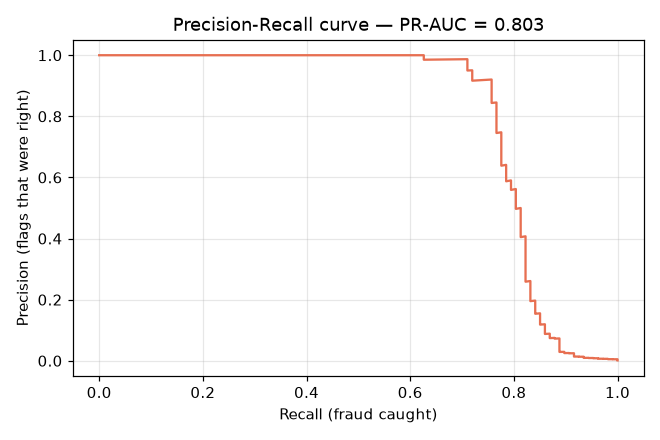
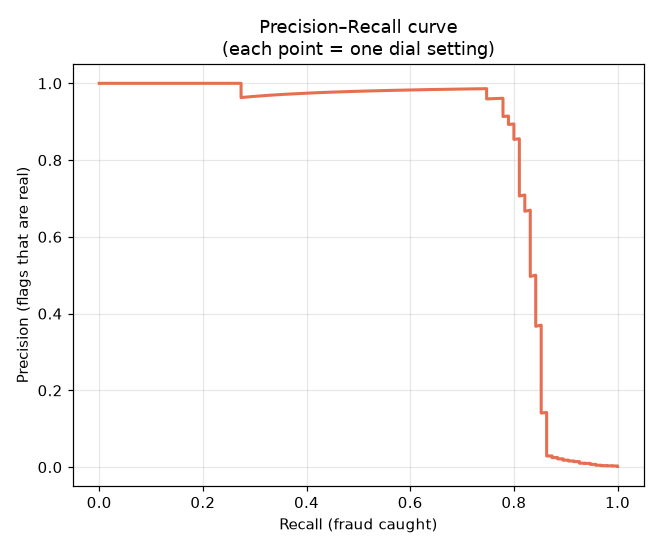
Add threshold-dial analysis (recall/precision trade-off, PR curve)

Changed region(s): [[0.0606, 0.0295, 1.0, 0.975], [0.0, 0.2068, 0.0909, 0.7386]]

diff --git a/src/models/tune_threshold.py b/src/models/tune_threshold.py
@@ -1,0 +1,92 @@
+"""
+tune_threshold.py — The DIAL. This is the heart of your product.
+
+A model outputs a fraud PROBABILITY (0..1) for every transaction. YOU choose the
+cut-off: "flag anything above X." That cut-off is the dial.
+
+  - Turn it DOWN (e.g. 0.10): catch more fraud, but annoy more good customers.
+  - Turn it UP   (e.g. 0.90): fewer false alarms, but let more fraud through.
+
+There is no perfect setting — only the one that fits a client's risk appetite.
+This script shows the whole trade-off so you can SET the dial on purpose.
+
+Run:  venv/bin/python src/models/tune_threshold.py
+"""
+import os
+import joblib
+import numpy as np
+import pandas as pd
+import matplotlib
+matplotlib.use("Agg")
+import matplotlib.pyplot as plt
+from sklearn.model_selection import train_test_split
+from sklearn.metrics import precision_recall_curve
+
+RANDOM_STATE = 42
+FIG_DIR = "reports/figures"
+os.makedirs(FIG_DIR, exist_ok=True)
+
+# Rebuild the EXACT same test set the model was evaluated on (same clean+split)
+df = pd.read_csv("data/creditcard.csv").drop_duplicates()
+X, y = df.drop(columns=["Class"]), df["Class"]
+X_train, X_test, y_train, y_test = train_test_split(
+    X, y, test_size=0.20, stratify=y, random_state=RANDOM_STATE
+)
+
+model = joblib.load("models/baseline_xgb.joblib")
+proba = model.predict_proba(X_test)[:, 1]          # fraud probability per tx
+amt = X_test["Amount"].values
+is_fraud = (y_test == 1).values
+total_fraud_amt = amt[is_fraud].sum()
+
+# ---------------------------------------------------------------------------
+# The dial at several settings — one row per cut-off
+# ---------------------------------------------------------------------------
+print("\n=== THE DIAL: what each cut-off buys and costs (test set, 95 frauds) ===")
+header = f"{'cut-off':>8} | {'fraud caught':>12} | {'recall':>7} | {'false alarms':>12} | {'precision':>9} | {'fraud $ saved':>13}"
+print(header); print("-" * len(header))
+for t in [0.95, 0.90, 0.70, 0.50, 0.30, 0.10, 0.05, 0.01]:
+    pred = proba >= t
+    tp = int((pred & is_fraud).sum())
+    fp = int((pred & ~is_fraud).sum())
+    fn = int((~pred & is_fraud).sum())
+    recall = tp / (tp + fn) if (tp + fn) else 0
+    precision = tp / (tp + fp) if (tp + fp) else 0
+    saved = amt[pred & is_fraud].sum()
+    print(f"{t:>8.2f} | {tp:>4}/{tp+fn:<7} | {recall*100:>6.1f}% | "
+          f"{fp:>12} | {precision*100:>8.1f}% | ${saved:>11,.0f}")
+
+print("\nRead it top-to-bottom: as the cut-off drops, 'fraud caught' rises but")
+print("'false alarms' rise too. That is the trade-off you are selling.")
+
+# ---------------------------------------------------------------------------
+# Figure 1: the Precision-Recall curve (every possible dial setting at once)
+# ---------------------------------------------------------------------------
+prec, rec, _ = precision_recall_curve(y_test, proba)
+plt.figure(figsize=(6, 5))
+plt.plot(rec, prec, color="#e76f51", lw=2)
+plt.xlabel("Recall (fraud caught)"); plt.ylabel("Precision (flags that are real)")
+plt.title("Precision–Recall curve\n(each point = one dial setting)")
+plt.grid(alpha=.3); plt.tight_layout()
+plt.savefig(f"{FIG_DIR}/pr_curve.png", dpi=110); plt.close()
+
+# ---------------------------------------------------------------------------
+# Figure 2: the dial itself — recall vs false alarms as the cut-off moves
+# ---------------------------------------------------------------------------
+ts = np.linspace(0.01, 0.99, 99)
+recalls = [ (proba >= t)[is_fraud].mean() * 100 for t in ts ]
+false_alarms = [ int(((proba >= t) & ~is_fraud).sum()) for t in ts ]
+fig, ax1 = plt.subplots(figsize=(7, 5))
+ax1.set_xlabel("Cut-off (the dial)")
+ax1.set_ylabel("Fraud caught  (recall %)", color="#2a9d8f")
+ax1.plot(ts, recalls, color="#2a9d8f", lw=2)
+ax1.tick_params(axis="y", labelcolor="#2a9d8f")
+ax2 = ax1.twinx()
+ax2.set_ylabel("Good customers wrongly blocked (count)", color="#e76f51")
+ax2.plot(ts, false_alarms, color="#e76f51", lw=2)
+ax2.tick_params(axis="y", labelcolor="#e76f51")
+plt.title("The dial: turn it left = catch more fraud AND block more good customers")
+plt.tight_layout(); plt.savefig(f"{FIG_DIR}/the_dial.png", dpi=110); plt.close()
+
+print(f"\nSaved 2 figures to {FIG_DIR}/  (pr_curve.png, the_dial.png)")
+print("Done.")
